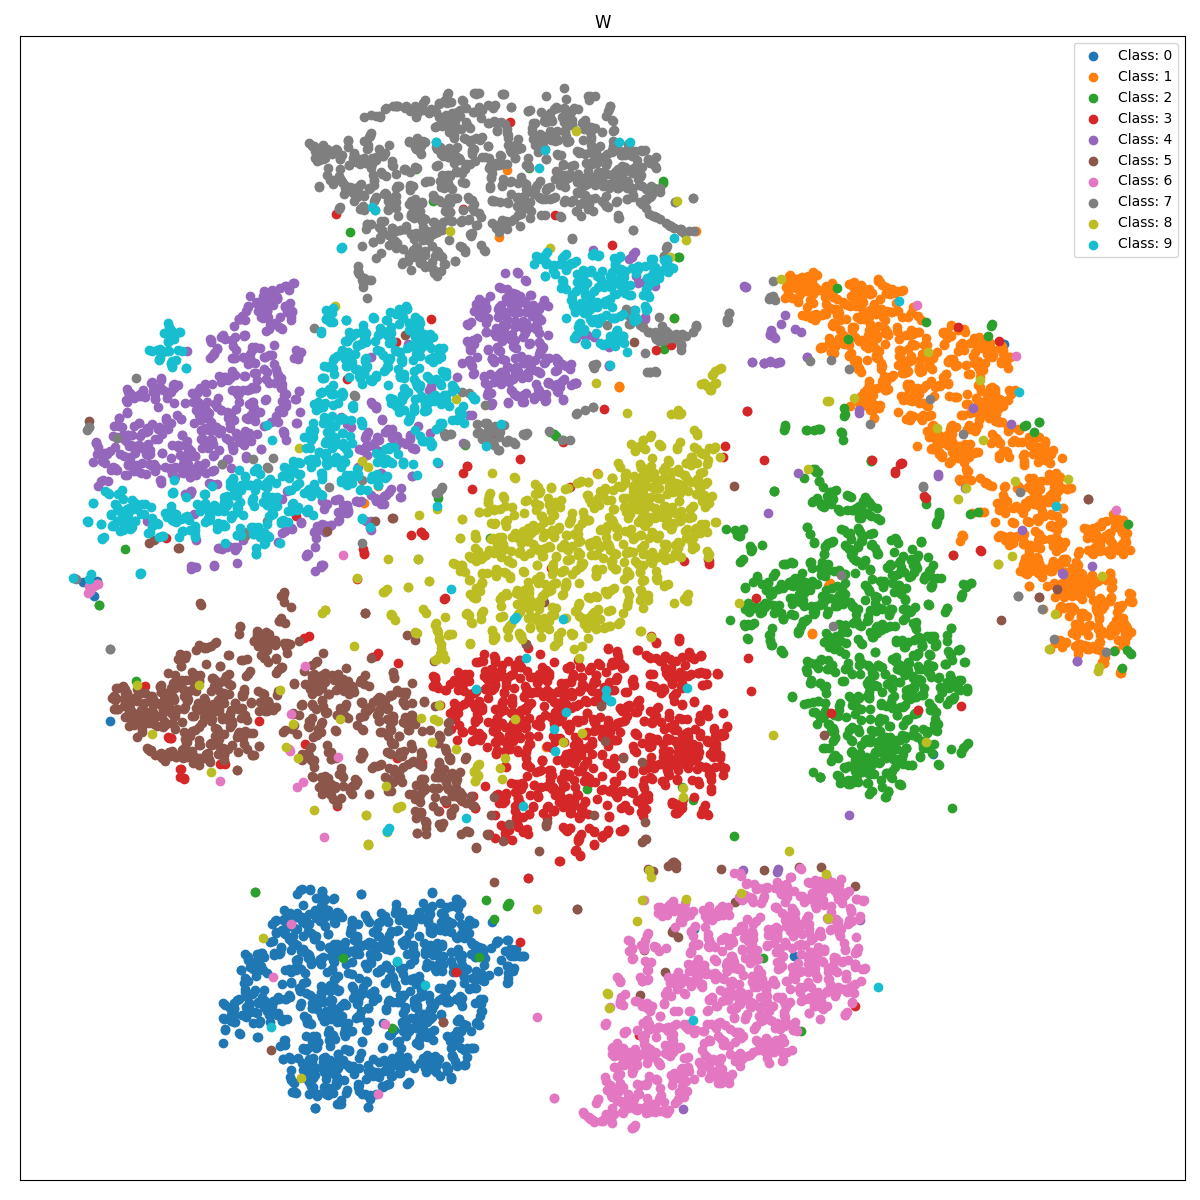
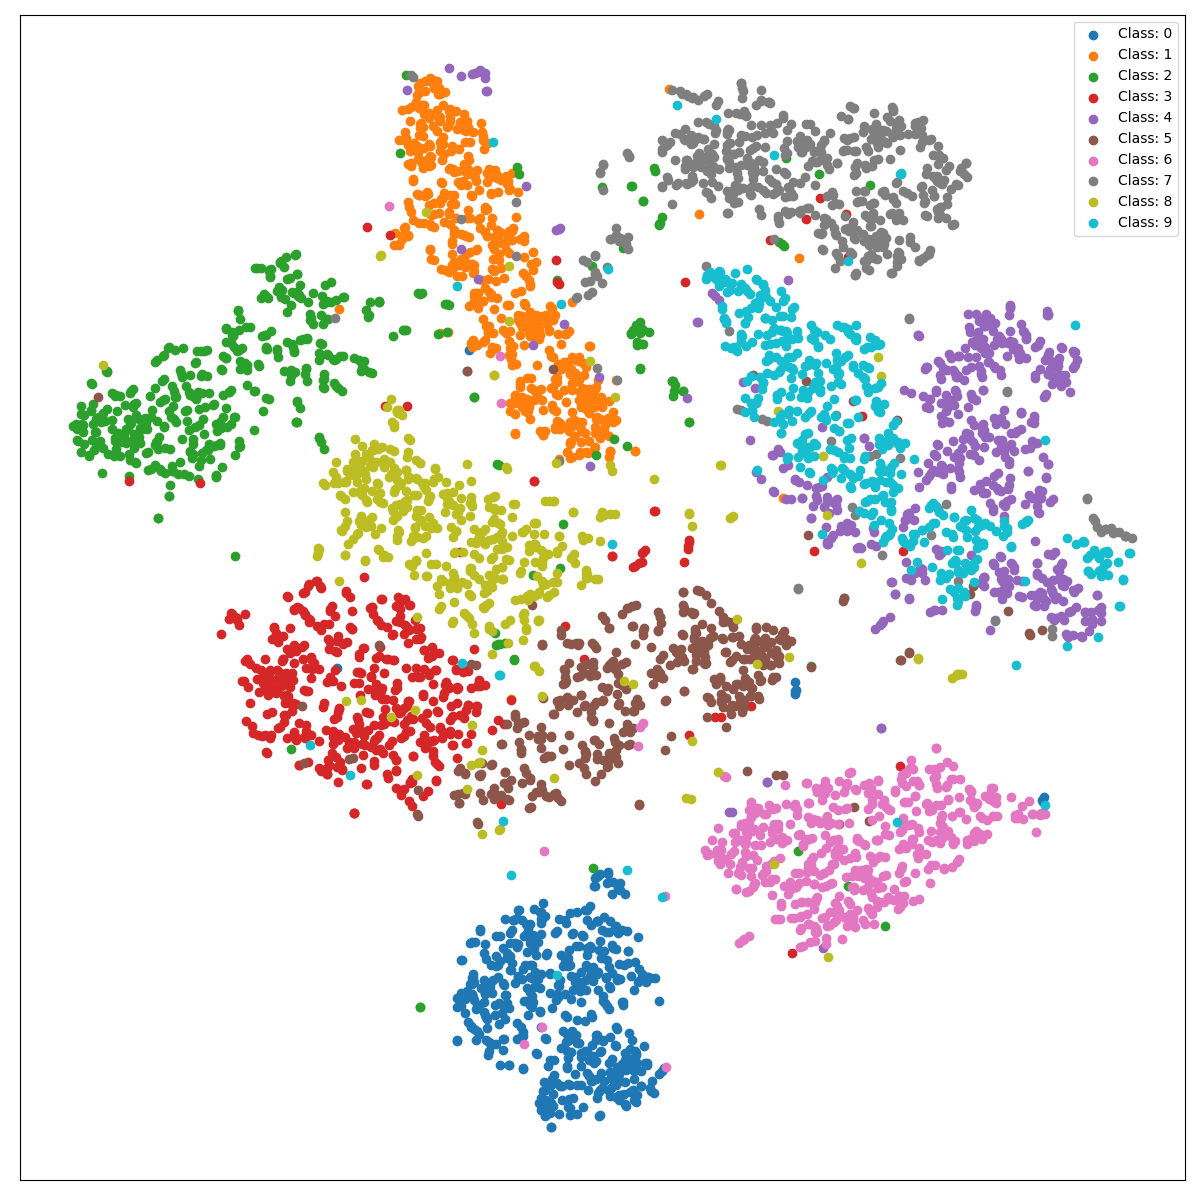
Added 20NG dataset (#5)
* Added 20ng

* Fixed error

diff --git a/bin/main.py b/bin/main.py
@@ -1,5 +1,5 @@
 import utils
-from data_preprocessing import mnist
+from data_preprocessing import mnist, tng
 from data_embedding import tsne, umap, largevis
 from metrics.local_score import LocalMetric
 from metrics.time_score import TimeScore
@@ -10,8 +10,8 @@ from metrics.spearman_score import SpearmanScore
 
 methods = [tsne, umap, largevis]
 method_names = ["TSNE", "UMAP", "LARGEVIS"]
-datasets = [mnist]
-dataset_names = ["MNIST"]
+datasets = [tng, mnist]
+dataset_names = ["20NG", "MNIST"]
 
 
 if __name__ == '__main__':
@@ -26,7 +26,7 @@ if __name__ == '__main__':
         local_metric = LocalMetric()
         time_metric = TimeScore(dataset_name)
         cluster_metric = ClusterScore(dataset_name)
-        spearman_metric = SpearmanScore(dataset_name)
+        spearman_metric = SpearmanScore(dataset_name, values)
 
         for method, method_name in zip(methods, method_names):
             print(f"{method_name} embedding...")
@@ -42,10 +42,10 @@ if __name__ == '__main__':
                 method_name=method_name
             )
             cluster_metric.calculate_cluster_score(output, labels, method_name)
-            spearman_metric.calculate_score(values, output, method_name)
+            spearman_metric.calculate_score(output, method_name)
 
         # Metrics comparison
-        local_metric.visualize()
+        local_metric.visualize(dataset_name)
         time_metric.visualize()
         cluster_metric.visualize()
         spearman_metric.visualize()

diff --git a/bin/metrics/spearman_score.py b/bin/metrics/spearman_score.py
@@ -6,20 +6,20 @@ import numpy as np
 
 
 class SpearmanScore():
-    def __init__(self, dataset):
+    def __init__(self, dataset, original_data):
         self.dataset = dataset
         self.scores = []
         self.labels = []
+        self.original_distances = self.calculate_distances(original_data)
 
     def calculate_distances(self, data):
         distances = distance_matrix(data, data)
         distances_flatten = np.triu(distances).flatten()
         return distances_flatten[distances_flatten != 0]
 
-    def calculate_score(self, original_data, embedded_data, method_name):
-        original_distances = self.calculate_distances(original_data)
-        embedded_distances = self.calculate_distances(embedded_data)
-        score = stats.spearmanr(original_distances, embedded_distances)
+    def calculate_score(self, embedded_data, method_name):
+        embedded_distances = self.calculate_distances(embedded_data)[:self.original_distances.shape[0]]
+        score = stats.spearmanr(self.original_distances, embedded_distances)
         self.scores.append(score.correlation)
         self.labels.append(method_name)
 

diff --git a/bin/metrics/local_score.py b/bin/metrics/local_score.py
@@ -306,7 +306,7 @@ class LocalMetric:
         self.Lls.append("solid")
         self.number_of_methods = self.number_of_methods + 1
 
-    def visualize(self):
+    def visualize(self, dataset_name):
         Lmarkers = random.sample(markers, self.number_of_methods)
         Lcols = random.sample(colors, self.number_of_methods)
         Lmedw = [1.0] * self.number_of_methods
@@ -320,7 +320,7 @@ class LocalMetric:
             Lls=self.Lls,
             Lmedw=Lmedw,
             Lsdots=Lsdots,
-            tit="DR quality",
+            tit=f'{dataset_name}_dr_quality',
             xlabel="Neighborhood size $K$",
             ylabel="$R_{NX}(K)$",
         )
@@ -333,7 +333,7 @@ class LocalMetric:
             Lls=self.Lls,
             Lmedw=Lmedw,
             Lsdots=Lsdots,
-            tit="KNN gain",
+            tit=f'{dataset_name}_KNN_gain',
             xlabel="Neighborhood size $K$",
             ylabel="$G_{NN}(K)$",
         )

diff --git a/bin/data_preprocessing/tng.py b/bin/data_preprocessing/tng.py
@@ -1,0 +1,11 @@
+import pandas as pd
+import numpy as np
+
+
+def get_data(size):
+    tng = pd.read_csv('data/tng.csv', names=([i for i in range(5000)] + ['labels']))
+    tng_labels = np.array(tng['labels'])
+    tng.pop('labels')
+    tng_values = np.array(tng)
+    return tng_values[:size], tng_labels[:size]
+    

diff --git a/bin/utils.py b/bin/utils.py
@@ -43,7 +43,6 @@ def save_plot_2d_scatter(X, labels, filename):
     plot.set_xticks(())
     plot.set_yticks(())
 
-    plt.title("W")
     plt.tight_layout()
     plt.legend()
     plt.savefig(f'outputs/{filename}')
